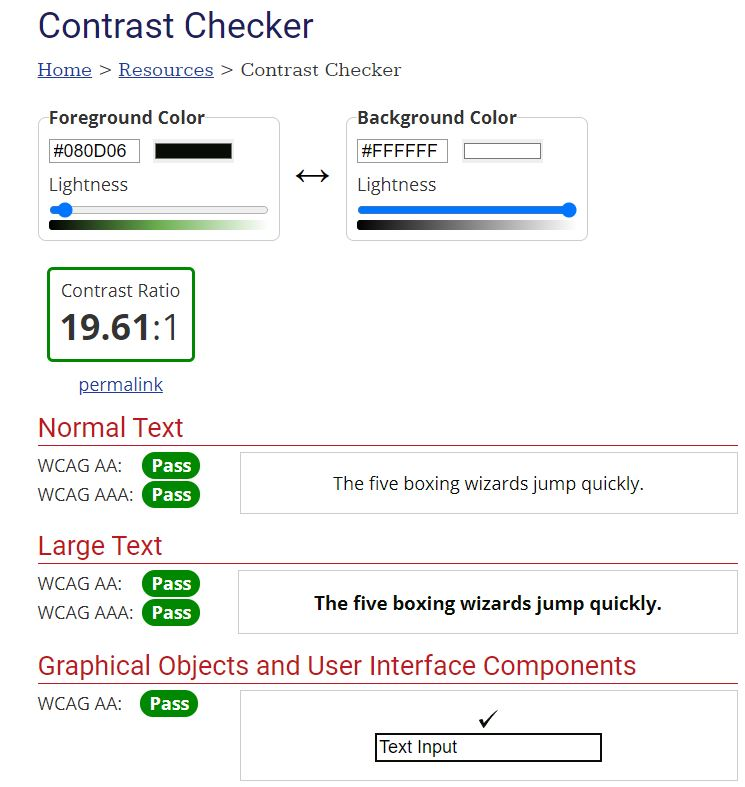
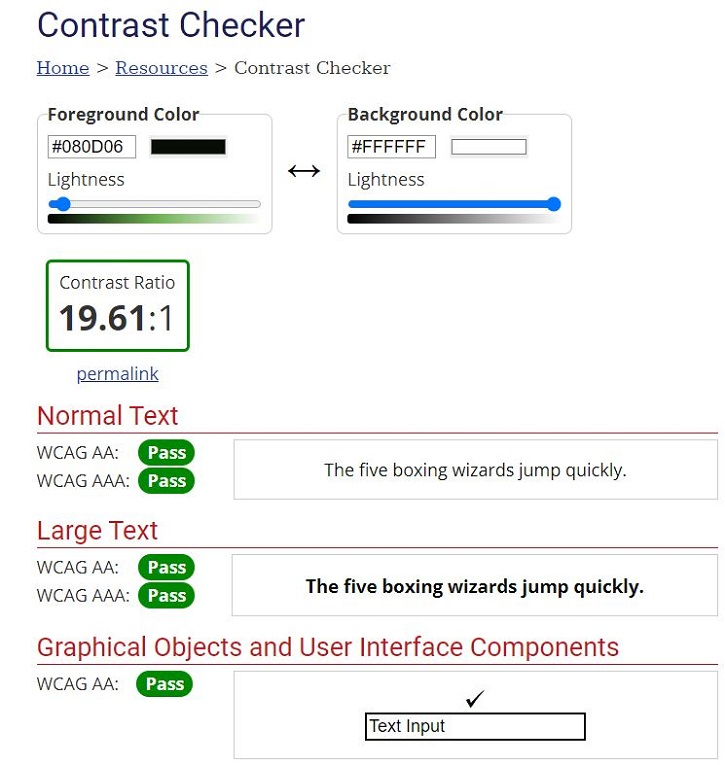
Add updated images for contrast checker and lighthouse report. Fix typos in readme.md

diff --git a/index.html b/index.html
@@ -34,7 +34,7 @@
                 <div class="rule">1. No 'googling' for the answers. Let's be honest and try our best! <i
                         class="far fa-smile-wink"></i></div>
                 <br>
-                <div class="rule">2. You can't change your mind. You can select an answer only once for each question.
+                <div class="rule">2. Think twice! You can click the option only once as it will return the result immediately.
                 </div>
                 <br>
                 <div class="rule">3. We are no quitters! Therefore you have to finish the quiz once you start it.</div>

diff --git a/README.md b/README.md
@@ -11,7 +11,7 @@ The purpose of Genius Trivia Quiz is to test user's advanced general knowledge t
 ## **FEATURES**
 
 - ### **START GAME PAGE IMAGE**
-    - The main page a box with rules of game and a play button. 
+    - The main page has a box with rules of the game and a play button. 
 
 ![Home page image](assets/wireframes/wireframe_main_page.JPG)
 
@@ -22,39 +22,39 @@ The purpose of Genius Trivia Quiz is to test user's advanced general knowledge t
 
 - ### **QUIZ PAGE - START**
 
-    - Shows a questions with three possible options on display
+    - Shows questions with three possible options on display
     - Next Questions button is not visible before you select your answer
 
 ![Quiz game page](assets/wireframes/wireframe_game.JPG)
 
 - ### **QUIZ PAGE - HOVER **
-    - When user hovers over the options, the buttons will change their background color to a shade of dark blue color and text will become bold white. 
+    - When a user hovers over the options, the buttons will change their background color to a shade of dark blue color and the text will become bold white. 
 
 ![Hover function](assets/wireframes/wireframe_game_hover.JPG)
 
 - ### **QUIZ PAGE - CORRECT/INCORRECT OPTION**
-    - When answer is selected, the background of the buttons will turn light green/light red according to being correct/incorrect.
+    - When an answer is selected, the background of the buttons will turn light green/light red according to being correct/incorrect.
 
 ![Quiz game page with correct/incorrect answer](assets/wireframes/wireframe_game_correct_incorrect.JPG)
 
 - ### **QUIZ PAGE - END SCREEN**
-    - The screen shows a text 'Finished!' and 'Play Again' button.
+    - The screen shows the text 'Finished!' and 'Play Again' button.
 
 ![End of game page](assets/wireframes/wireframe_end_screen_w_hover.JPG)
 
 ## **FUTURE DEVELOPMENT**
 
-I would like to add pop up modals with interesting facts about the correct answers. I would also like to add a question counter and a timer. 
+I would like to add pop-up modals with interesting facts about the correct answers. I would also like to add a question counter and a timer. 
 
 ## **TESTING**
 
 Here is my [Balsamiq wireframes](assets/wireframes/Balsamiq_wireframe.JPG). 
 
-I kept the styling of the game to a minimum to make it accessible and easy to navigate through on every device. I set a simple background image with a back up background color of black for a good contrast in case the image doesn't load up.
+I kept the styling of the game to a minimum to make it accessible and easy to navigate through on every device. I set a simple background image with a backup background color of black for a good contrast in case the image doesn't load up.
 
 I tested the game in Chrome Developer Tools using responsive design as well as all of the available device types listed. 
 
-I tested the quiz on iPad and iPhone 8, in Chrome and Microsoft Edge on my desktop PC with screen resolution of 1920px by 1080px, and I tested it on a laptop in Chrome, Mozilla, and Microsoft Edge. The site is responsive, looks good, content is readable on all standard screen sizes and I found it easy to click on all buttons. 
+I tested the quiz on iPad and iPhone 8, in Chrome and Microsoft Edge on my desktop PC with a screen resolution of 1920px by 1080px, and I tested it on a laptop in Chrome, Mozilla, and Microsoft Edge. The site is responsive, looks good, content is readable on all standard screen sizes and I found it easy to click on all buttons. 
 
 ### **VALIDATOR TESTING**
 
@@ -68,7 +68,7 @@ I tested the quiz on iPad and iPhone 8, in Chrome and Microsoft Edge on my deskt
 
 ### **ACCESSIBILITY**
 
-I checked that the chosen colors and fonts are easy to read. All pages have passed through  the Lighthouse reporting tool in Chrome developer tools on both mobile and desktop.
+I checked that the chosen colors and fonts are easy to read. The page has passed through  the Lighthouse reporting tool in Chrome developer tools on both mobile and desktop.
 - [Contrast checker - body and header text](assets/wireframes/accessibility/Body_text_contrast_checker.JPG)
 - [Contrast checker - correct class](assets/wireframes/accessibility/Correct_class_contrast_checker.JPG)
 - [Contrast checker - incorrect class](assets/wireframes/accessibility/Incorrect_class_contrast_checker.JPG)
@@ -103,7 +103,7 @@ The site was deployed to GitHub pages. The steps to deploy are as follows:
 - **CONTENT**
     - My source for questions and correct answers was [Best Life](https://bestlifeonline.com/genius-trivia-questions/).
 
-    - The icons in the footer and a sign up form were taken from [Font Awesome](https://fontawesome.com/)
+    - The icons in the rules container and at the end of the game were taken from [Font Awesome](https://fontawesome.com/)
 
 - **CODE**
    
